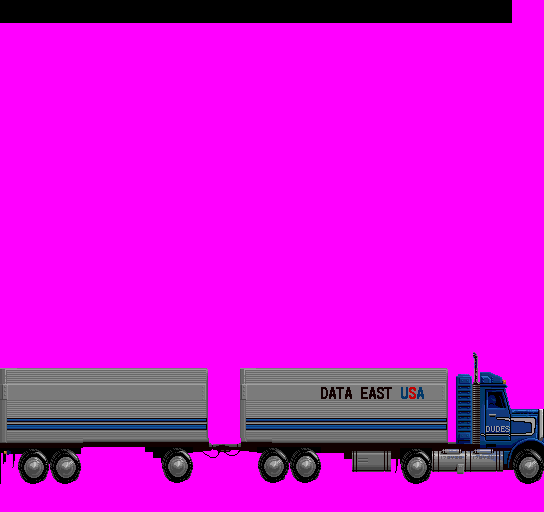
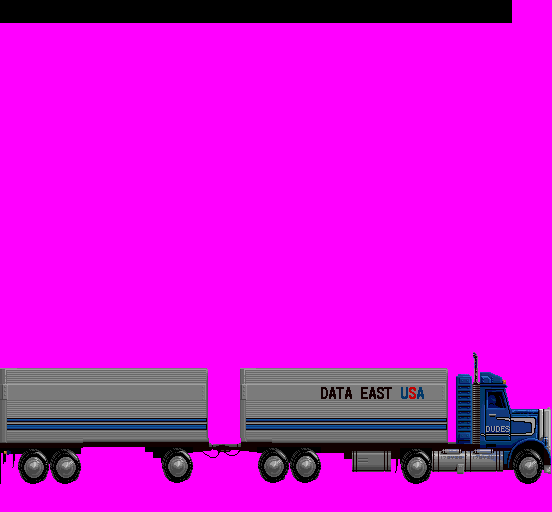
level 2 running

diff --git a/assets/amiga/convert_truck_pics.py b/assets/amiga/convert_truck_pics.py
@@ -5,29 +5,30 @@ from shared import *
 
 empty_plane_workaround = True
 
-def doit(global_palette,force=False):
-    asm_out = generated_src_dir / "truck_1.68k"
-    dudes_bin = data_dir / "truck_1.bin"
-    y_pos = 16*23
+def doit(global_palette,name,y_start,level_1_bar,exhaust_height,width,height,y_pos,forced_nb_planes,force=False):
+    asm_out = generated_src_dir / f"{name}.68k"
+    dudes_bin = data_dir / f"{name}.bin"
+
     if force or not dudes_bin.exists():
         pad_value =(0X10,0x20,0x30)
-        truck1_img = Image.open(whole_pics_dir / "truck_1.png")
-        y_start = 352
-        exhaust_height = 16
-        width = 16*24
-        truck1_img=truck1_img.crop((0,y_start+exhaust_height,width,y_start+128))
-        forced_nb_planes = 3
+        truck1_img = Image.open(whole_pics_dir / f"{name}.png")
+
+        truck1_img=truck1_img.crop((0,y_start+exhaust_height,width,y_start+height))
+
+        truck1_img.save(dump_dir/f"{name}.png")
+
         reduced_nb_colors = 1<<forced_nb_planes
 
         if empty_plane_workaround:
             forced_nb_planes = 6
 
-        # remove some rows to show the upper iron bar (lame trick)
-        bar_height = 8
-        bar_start = 16
-        for x in range(truck1_img.size[0]):
-            for y in range(bar_start,bar_start+bar_height):
-                truck1_img.putpixel((x,y),transparent)
+        if level_1_bar:
+            # remove some rows to show the upper iron bar (lame trick)
+            bar_height = 8
+            bar_start = 16
+            for x in range(truck1_img.size[0]):
+                for y in range(bar_start,bar_start+bar_height):
+                    truck1_img.putpixel((x,y),transparent)
 
 
 
@@ -87,6 +88,11 @@ def doit(global_palette,force=False):
         reduced_palette.remove(transparent)
         return reduced_palette
 
+def doit_truck_1(global_palette,force=False):
+    return doit(global_palette,name="truck_1",level_1_bar=True,forced_nb_planes=3,y_start=352,height=128,exhaust_height=16,width=16*24,y_pos = 16*23,force=force)
+def doit_truck_2(global_palette,force=False):
+    return doit(global_palette,name="truck_2",level_1_bar=False,forced_nb_planes=3,y_start=352,height=128,exhaust_height=16,width=544,y_pos = 16*23 - 256,force=force)
+
 if __name__ == "__main__":
     gp = [(0, 0, 0),
  (56, 71, 90),
@@ -120,4 +126,4 @@ if __name__ == "__main__":
  (142, 104, 56),
  (142, 123, 104),
  (159, 123, 71)]
-    reduced = doit(global_palette=gp,force=True)
+    reduced = doit_truck_1(global_palette=gp,force=True)

diff --git a/assets/amiga/convert_graphics.py b/assets/amiga/convert_graphics.py
@@ -4,7 +4,7 @@ import os,sys,bitplanelib,subprocess,json,pathlib
 from shared import *
 
 import convert_dudes_pics
-import convert_truck_1_pic
+import convert_truck_pics
 
 convert_dudes_pics.doit()
 
@@ -687,9 +687,14 @@ if True:
     process_tile_context("game_intro_24a000",game_intro_tile_24a000_sheet_dict,32)
     process_tile_context("highs_24a000",title_tile_24a000_sheet_dict,16)
     process_tile_context("level_1_24a000",level_1_tile_24a000_sheet_dict,32,first_pass=True)
-    truck_used_colors = convert_truck_1_pic.doit(palette_dict["level_1_24a000"],force=True)
+    truck_used_colors = convert_truck_pics.doit_truck_1(palette_dict["level_1_24a000"],force=True)
     process_tile_context("level_1_24a000",level_1_tile_24a000_sheet_dict,32,first_pass=False,first_colors=truck_used_colors)
     #process_tile_context("level_3_24d000",level_3_tile_24d000_sheet_dict,16,first_pass=False)
+
+    process_tile_context("level_2_24a000",level_2_tile_24a000_sheet_dict,16,first_pass=True)
+    truck_used_colors = convert_truck_pics.doit_truck_2(palette_dict["level_2_24a000"],force=True)
+    process_tile_context("level_2_24a000",level_2_tile_24a000_sheet_dict,16,first_pass=False,first_colors=truck_used_colors)
+    process_tile_context("game_level_2",sprite_sheet_dict,48,is_bob=True,shift_palette_count=16)
 
 # sprites
     process_tile_context("title_24a000",title_tile_24a000_sheet_dict,16)
@@ -698,8 +703,6 @@ if True:
     # game intro. Not gaining any colors by passing the associated screen tile colors...
     process_tile_context("game_intro",sprite_sheet_dict,32,is_bob=True,shift_palette_count=32)
     process_tile_context("game_level_1",sprite_sheet_dict,32,is_bob=True,shift_palette_count=32)
-    process_tile_context("level_2_24a000",level_2_tile_24a000_sheet_dict,16,first_pass=False)
-    process_tile_context("game_level_2",sprite_sheet_dict,48,is_bob=True,shift_palette_count=16)
     #process_tile_context("game_level_3",sprite_sheet_dict,48,is_bob=True,shift_palette_count=16)
     #process_tile_context("game_level_4",sprite_sheet_dict,48,is_bob=True,shift_palette_count=16)
 

diff --git a/assets/amiga/shared.py b/assets/amiga/shared.py
@@ -13,7 +13,7 @@ dump_dir = this_dir / "dumps"
 transparent = (255,0,255)
 
 def asm2bin(source,dest):
-    subprocess.run(["vasmm68k_mot","-nosym","-pic","-Fbin",source,"-o",dest],check=True)
+    subprocess.run(["vasmm68k_mot","-nosym","-pic","-Fbin",source,"-o",dest],check=True,stdout=subprocess.DEVNULL)
 
 def transparent_first(palette,transparent):
     # re-insert transparent in first position
